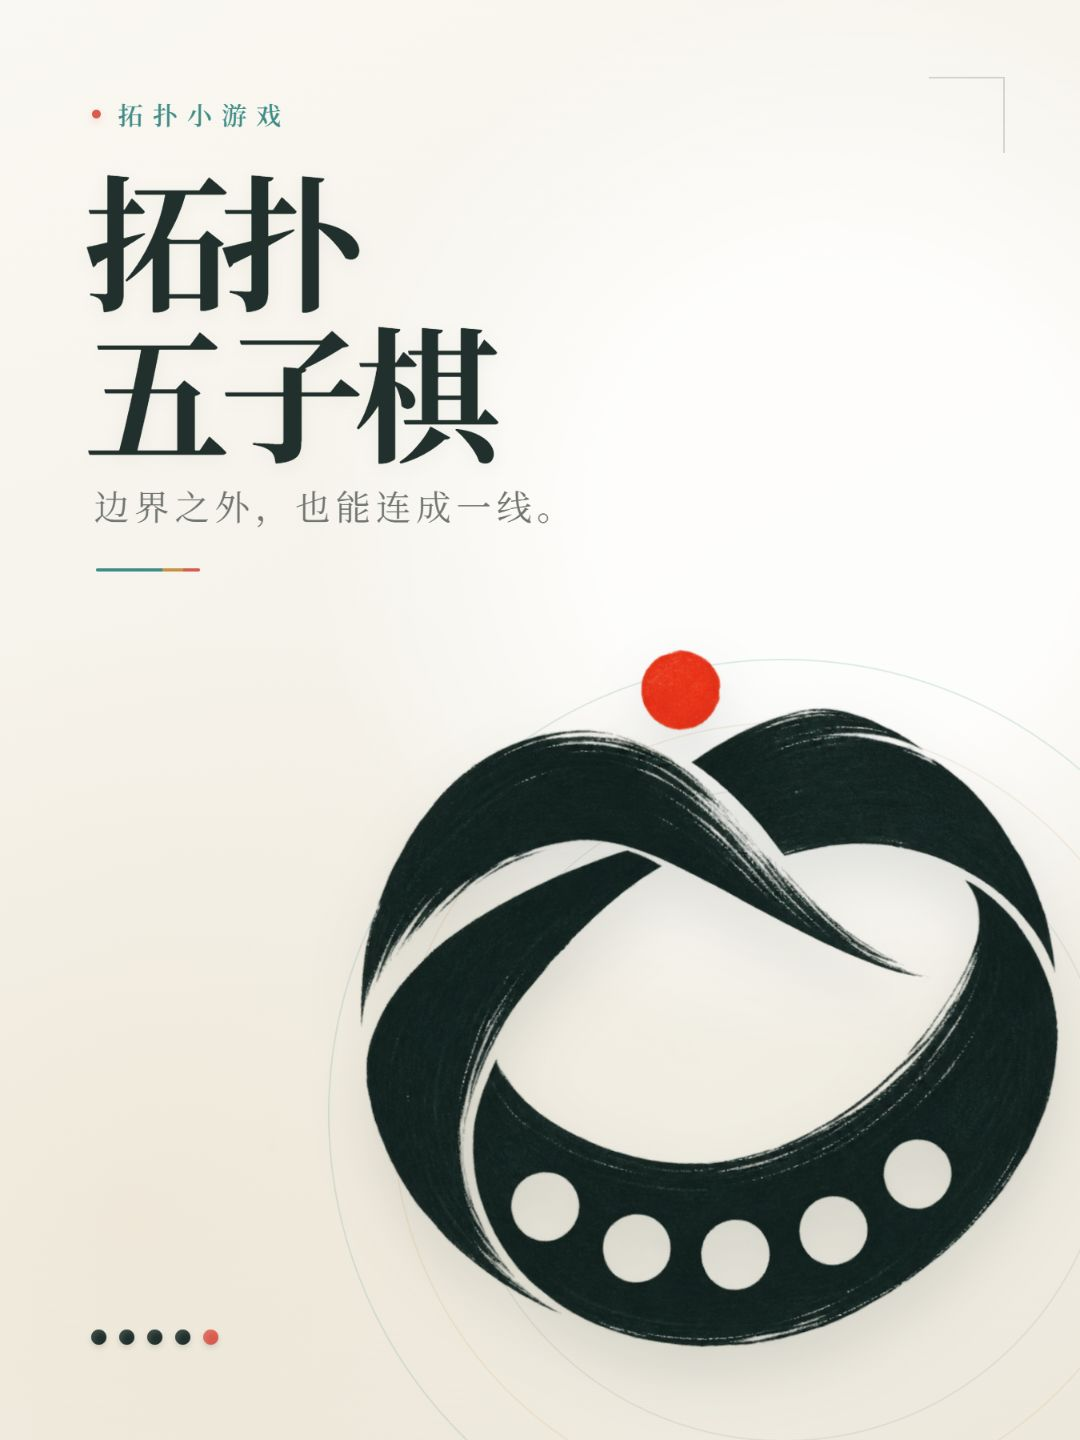
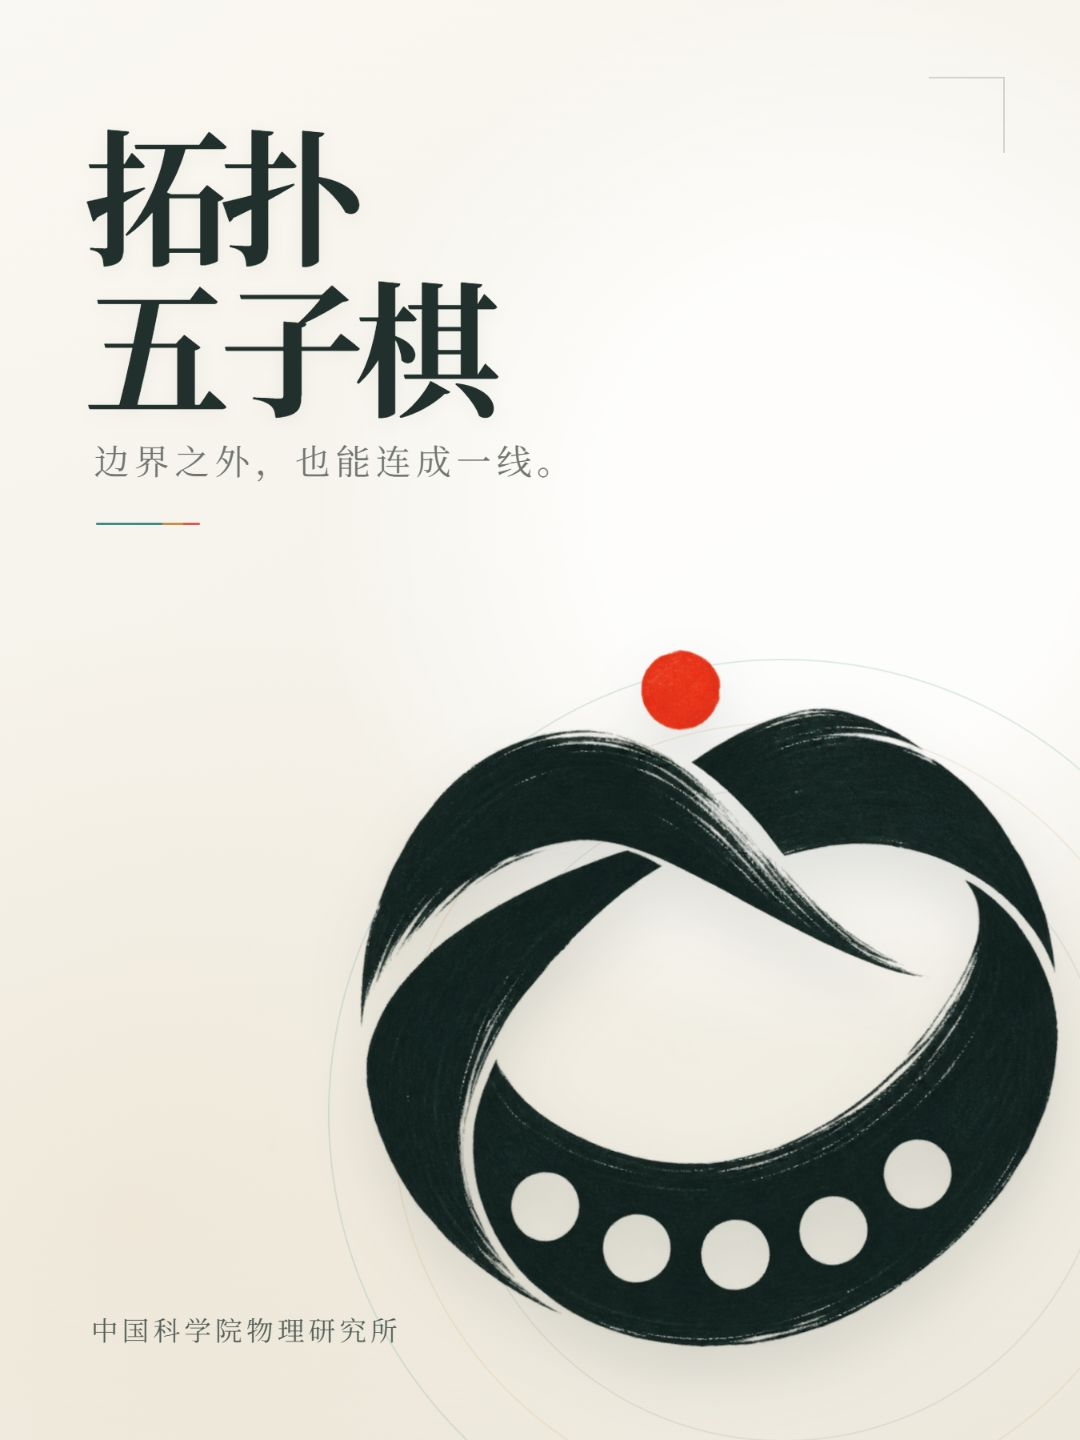
refine: simplify social cover

Changed region(s): [[0.0611, 0.0625, 0.4889, 0.375], [0.0917, 0.9062, 0.3667, 0.9375]]

diff --git a/promo/cover-3x4.html b/promo/cover-3x4.html
@@ -29,6 +29,14 @@
       font-display: block;
     }
 
+    @font-face {
+      font-family: "Institution Serif";
+      src: url("./assets/noto-serif-sc-institution-400.ttf") format("truetype");
+      font-weight: 400;
+      font-style: normal;
+      font-display: block;
+    }
+
     :root {
       color-scheme: light;
       --paper: #f3f0e7;
@@ -83,32 +91,10 @@
       mix-blend-mode: multiply;
     }
 
-    .eyebrow {
-      position: absolute;
-      top: 96px;
-      left: 92px;
-      display: flex;
-      align-items: center;
-      gap: 17px;
-      font-size: 25px;
-      font-weight: 600;
-      letter-spacing: .38em;
-      color: var(--teal);
-    }
-
-    .eyebrow::before {
-      content: "";
-      width: 9px;
-      height: 9px;
-      border-radius: 50%;
-      background: var(--red);
-      box-shadow: 0 3px 9px rgba(217,91,79,.25);
-    }
-
     .title {
       position: absolute;
       z-index: 3;
-      top: 165px;
+      top: 119px;
       left: 84px;
       margin: 0;
       font-size: 146px;
@@ -124,7 +110,7 @@
     .tagline {
       position: absolute;
       z-index: 3;
-      top: 480px;
+      top: 434px;
       left: 94px;
       margin: 0;
       color: var(--muted);
@@ -137,7 +123,7 @@
       position: absolute;
       z-index: 2;
       left: 96px;
-      top: 568px;
+      top: 522px;
       width: 104px;
       height: 3px;
       border-radius: 3px;
@@ -184,25 +170,18 @@
       border: 2px solid rgba(33,48,44,.075);
     }
 
-    .stones {
+    .institution {
       position: absolute;
       z-index: 4;
       left: 91px;
-      bottom: 96px;
-      display: flex;
-      gap: 13px;
-      align-items: center;
+      bottom: 92px;
+      margin: 0;
+      font-family: "Institution Serif", "Topology Serif", serif;
+      font-size: 27px;
+      font-weight: 400;
+      letter-spacing: .15em;
+      color: rgba(33,48,44,.76);
     }
-
-    .stone {
-      width: 15px;
-      height: 15px;
-      border-radius: 50%;
-      background: var(--ink);
-      box-shadow: inset 3px 3px 4px rgba(255,255,255,.12), 0 3px 6px rgba(33,48,44,.16);
-    }
-
-    .stone:last-child { background: var(--red); }
 
     .corner-mark {
       position: absolute;
@@ -217,15 +196,12 @@
 </head>
 <body>
   <main class="cover" aria-label="拓扑五子棋小红书宣传封面">
-    <div class="eyebrow">拓扑小游戏</div>
     <h1 class="title"><span>拓扑</span><span>五子棋</span></h1>
     <p class="tagline">边界之外，也能连成一线。</p>
     <div class="rule" aria-hidden="true"></div>
     <div class="orbit" aria-hidden="true"></div>
     <img class="hero" src="../app/assets/brand-icon.png" alt="拓扑五子棋环结图标">
-    <div class="stones" aria-hidden="true">
-      <i class="stone"></i><i class="stone"></i><i class="stone"></i><i class="stone"></i><i class="stone"></i>
-    </div>
+    <p class="institution">中国科学院物理研究所</p>
     <div class="corner-mark" aria-hidden="true"></div>
   </main>
 </body>
